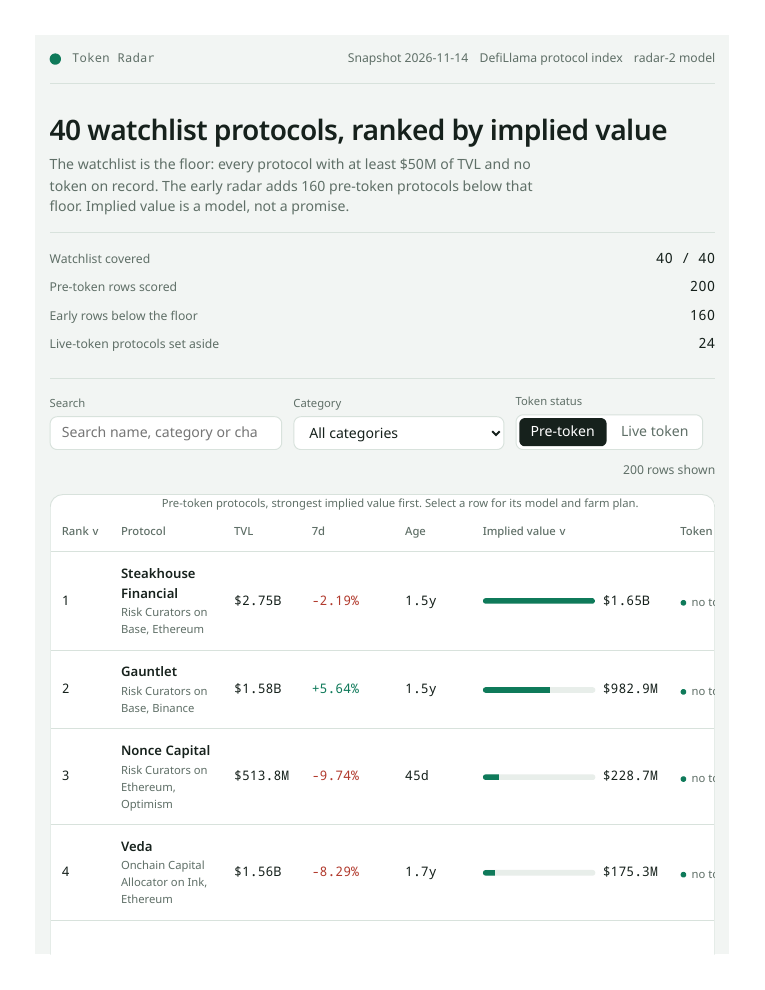
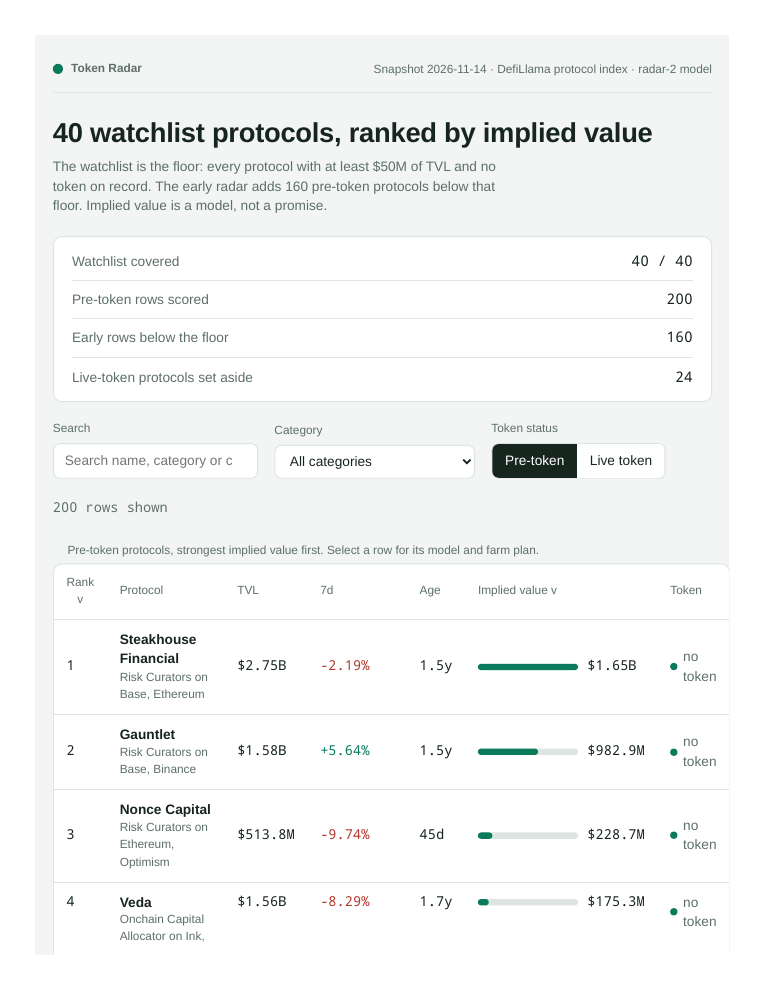
Fix detail dialog (element builder now flattens array children) and install real screenshots of the radar-2 dashboard

diff --git a/dashboard/app.js b/dashboard/app.js
@@ -23,12 +23,17 @@
         else node.setAttribute(key, value);
       }
     }
-    for (var i = 2; i < arguments.length; i++) {
-      var child = arguments[i];
-      if (child === null || child === undefined) continue;
-      node.appendChild(typeof child === 'string' ? document.createTextNode(child) : child);
-    }
+    for (var i = 2; i < arguments.length; i++) appendKids(node, arguments[i]);
     return node;
+  }
+
+  function appendKids(node, child) {
+    if (child === null || child === undefined) return;
+    if (Array.isArray(child)) {
+      child.forEach(function (c) { appendKids(node, c); });
+      return;
+    }
+    node.appendChild(typeof child === 'string' ? document.createTextNode(child) : child);
   }
 
   function fmtUsd(v) {
